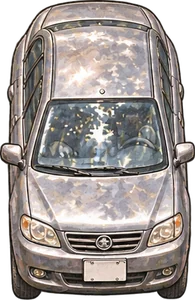
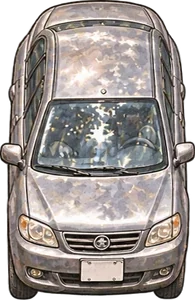
行人地獄：車輛素材校正歪斜，機車不再左右擺，路邊停車偏移縮小

diff --git a/preview/pedestrian-hell/index.html b/preview/pedestrian-hell/index.html
@@ -391,7 +391,7 @@ button:disabled{opacity:.6}
         row+=h;
       }
       group.forEach(function(k){
-        if(k==='car')item(draw1('cr',CARS),2,Math.random()<.35?-.2:0);   /* off<0：往人行道壓過去 */
+        if(k==='car')item(draw1('cr',CARS),2,Math.random()<.35?-.08:0);   /* off<0：往人行道壓過去 */
         else if(k==='truck'){item('cones',1);item('truck_parked',2);}
         else if(k==='stall')item('stall_road',3);
         else if(Math.random()<.5)item('scooterstack',2);
@@ -758,7 +758,7 @@ button:disabled{opacity:.6}
     cars.forEach(function(v){
       var bottom=sy(v.y)+C-3,h=v.len*C;
       if(bottom<-C||bottom-h*1.3>H)return;
-      var two=v.len<1,mx=cx(v.lane+.5)+(two&&!calm?Math.sin(clk*7+v.y*.6)*C*.035:0);
+      var two=v.len<1,mx=cx(v.lane+.5);                       /* 車身固定走車道正中央，不左右擺 */
       var bounce=calm?0:Math.sin(clk*(two?34:19)+v.len*9)*(two?1.3:1);
       steam(mx+C*(two?.2:.3),bottom-h*.95,v.len,C*.07,'120,120,120');      /* 排氣在車尾（上方） */
       sprite(v.img,mx,bottom+bounce,R*(two?.76:v.img==='v_bus'?1.04:1),h*1.12);

diff --git a/preview/pedestrian-hell/design/README.md b/preview/pedestrian-hell/design/README.md
@@ -27,5 +27,6 @@
 | `anim-*-raw-v1.png`、`anim-*-request.json` | 主角、鄰居、黑狗、橘貓的 sprite-gen 走路分格原圖與設定；打包成 `art/anim_*.webp` |
 | `anim-hero-jog*` | 主角改為小跑（三方向各 8 格）；背面為嚴格左右交替的重畫版，正面第 6 格有瑕疵、以第 2 格代替。`anim-hero-walk_*` 只剩站姿在用 |
 | `sheet-bus-long-v1.png` | 加長版公車與垃圾車；車道同步加寬為走道的 1.32 倍 |
+| （校正） | 車輛原圖車身偏斜約 2～6 度，`art/` 內車輛已做水平切變校正；`sheet-*` 原檔保留未改 |
 
 招牌店名為遊戲虛構，正式上架前需再確認是否撞到真實店家。
